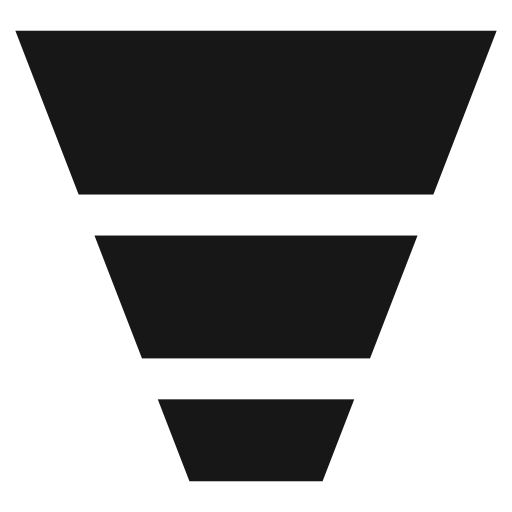
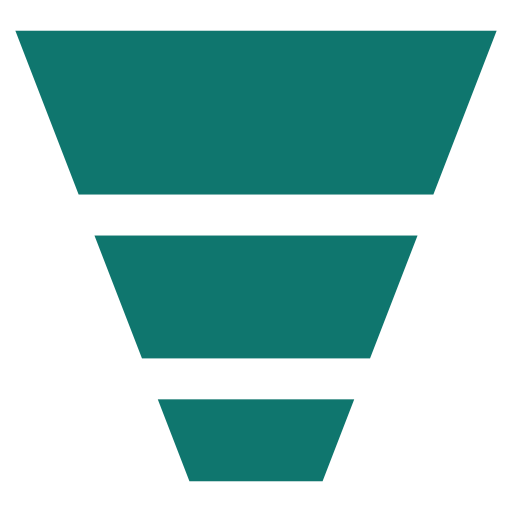
fix(store-web): make the shelf readable at browser-tab size
Founder review on 2026-08-16, viewing the live site at thumbnail scale next to
Gmail and Mail. Five defects, all of them invisible at desktop size.

- Card descriptions are capped at 6 words, measured against the real 179px
  column on a 390px phone. The clamp was cutting mid-clause because cardLine's
  30-word default is sized for the Spotlight card, which has no clamp at all.
- Rows reserve height for two lines of heading and two of description, so the
  price, category and multiple sit at the same y on every row instead of
  moving with the content.
- The favicon is teal (#0F766E), not ink. Three near-black slabs on a white
  tab carry no hue at 16px, so both Mumchimp tabs read as grey smudges.
  Raster icons regenerated from the same geometry.
- The H1 now carries the actor-and-verb line that was only in the <title>, and
  breaks at chosen points below md. Measured with the real font at the token's
  live clamp size: the three-way split is the only break that fits both the
  390px and 640px column.
- The evidence bar on a row is replaced by the source count as a number. At
  12px with no numeral a reader could not tell 6 sources from 14.

diff --git a/store_platform/src/Store.Web/src/components/discovery/PackRow.tsx b/store_platform/src/Store.Web/src/components/discovery/PackRow.tsx
@@ -1,7 +1,6 @@
 import Link from 'next/link';
 import React from 'react';
 
-import { EvidenceBar } from '@/components/ui/EvidenceBar';
 import { Icon } from '@/components/ui/Icon';
 import { CATEGORY_LABEL } from '@/components/ui/PackCardHeader';
 import { PriceText } from '@/components/ui/Money';
@@ -73,7 +72,25 @@ export function PackRow({
   const { heading, sub } = cardHeading(pack);
   // `repairTruncation` repairs the publish path's character-150 cut; `cardLine` then caps at a
   // word boundary so the row never shows a clause that stops mid-thought. See `cardLine`.
-  const line = cardLine(repairTruncation(pack.oneLine) || sub);
+  //
+  // THE ROW GETS ITS OWN BUDGET (founder review, 2026-08-16): 6 words, not `cardLine`'s 30-word
+  // default. `cardLine`'s default is sized for the Spotlight card, which renders its line with no
+  // CSS clamp at all (`pages/index.tsx:402`) -- so a 155-203 char output there just wraps to
+  // however many lines it needs and nothing is ever cut. The row is different: the description
+  // sits in a `line-clamp-2` box in a column measured at 179px wide on a 390px phone (this file's
+  // own docblock above, "the text column runs L=80..R=259"). Measured with the real font
+  // (Switzer, 14px/1.4, the site's `--text-meta`) against real prose in that exact column: only
+  // 46-57 characters fit on two lines before the clamp starts eating words. That is almost
+  // exactly the length of the two examples the founder quoted as broken -- "...the financier
+  // covers the difference if copper" is 46 characters, the same number the measurement landed
+  // on. At the 30-word default, `cardLine`'s own docblock records a 155-char median: roughly
+  // three and a half times too long for this column, which is why the clamp was cutting mid-word
+  // and mid-clause instead of never firing. Re-running `cardLine`'s exact algorithm (word cap,
+  // then clause-boundary backoff, then dangling-word backoff) at maxWords=6 against five
+  // realistic descriptions, the worst case is 2 lines at this column width; maxWords=7 already
+  // overflows to 3 on the longest sample. 6 is the highest budget that keeps the clamp a safety
+  // net that never fires, at the narrowest supported width.
+  const line = cardLine(repairTruncation(pack.oneLine) || sub, 6);
   const price = formatPriceForMarket(pack.price, cur);
 
   return (
@@ -108,14 +125,28 @@ export function PackRow({
             which is the defect the brief names, and it was hiding on desktop precisely because
             it bites only the longest titles. `line-clamp-2` ellipses at a line box instead, so
             a pathological title still cannot push the row open. */}
-        <span className="line-clamp-2 block text-body font-semibold text-text">
+        {/* RESERVED HEIGHT, not just a two-line cap (founder, 2026-08-16, item 2: "nothing sits
+            on a grid" -- row heights varied with content, so the price/category/multiple line
+            below landed at a different y on every row). `min-h` reserves the box for two lines
+            even when the heading is one line or the pack has no line at all, so every row is the
+            same height whether or not its content needs both lines. `text-body` is 1rem/1.55
+            (tokens.css), so two line boxes are 2 * 1 * 1.55 = 3.1rem. This is a floor, not a
+            fixed height: `line-clamp-2` still governs the ceiling, so a longer heading still
+            wraps and clips at two lines instead of pushing the row taller. */}
+        <span className="line-clamp-2 block min-h-[3.1rem] text-body font-semibold text-text">
           {listHeading(heading)}
         </span>
         {/* TWO LINES, not one (founder, 2026-08-16, item 3). `truncate` is a single line AND a
             mid-word cut, which is the same defect the title was carrying: `cardLine` had already
             capped the string at a word boundary, and then the one-line box cut it again inside a
-            word. `line-clamp-2` fills both lines and ellipses only at a line box. */}
-        {line && <span className="mt-0.5 line-clamp-2 block text-meta text-muted">{line}</span>}
+            word. `line-clamp-2` fills both lines and ellipses only at a line box.
+            RESERVED HEIGHT (item 2, same reasoning as the title above): `text-meta` is
+            0.875rem/1.4 (tokens.css), so two line boxes are 2 * 0.875 * 1.4 = 2.45rem. Rendered
+            unconditionally now (not gated on `line`) so a pack with no description still holds
+            its slot instead of collapsing the row shorter than its neighbours. */}
+        <span className="mt-0.5 line-clamp-2 block min-h-[2.45rem] text-meta text-muted">
+          {line}
+        </span>
         {/* THE CONTAINER WRAPS, and all three of `flex-wrap`, `min-w-0` here and `min-w-0` on the
             figure are load-bearing. Without them nothing on this line could yield, so the row
             overflowed and its items collided -- one cause behind three separately reported
@@ -141,11 +172,21 @@ export function PackRow({
               for the first line. */}
           {viewed && <span className="flex-none font-mono text-caption text-subtle">seen</span>}
           {stat && <PackFigure stat={stat} weight="row" />}
-          {/* Capped harder than the component's default 40. The cap is honest either way (past it
-              the run draws an over-marker and the numeral carries the exact value), and 40 ticks
-              is a ~79px object competing for a line that has ~246px on a phone. The bar's job in
-              a row is "more evidence than the row above", which 14 ticks state as well as 40. */}
-          {evidenceLabel && <EvidenceBar count={pack.sourceCount} label={false} cap={14} />}
+          {/* A NUMBER, not a bar (founder, 2026-08-16, item 5: "the sparkline is decoration
+              wearing data's clothes"). The bar this replaced was `<EvidenceBar count=...
+              label={false} cap={14} />` -- 12px ticks with no numeral, so a reader could not
+              tell 6 sources from 14 without counting marks on a row. `evidenceLabel` only true
+              when `stat.kind !== 'sources'` (declared above), i.e. exactly the branch where the
+              row's lead figure is the price multiple, NOT the source count -- so this is the
+              only place on the row the count is shown as text; `PackFigure` shows the multiple,
+              not the count, in this branch. Confirmed by reading `packStat.ts` and `PackFigure`
+              before cutting the bar: the count does not survive elsewhere in this branch, so
+              cutting it silently would have dropped information rather than just decoration. */}
+          {evidenceLabel && typeof pack.sourceCount === 'number' && pack.sourceCount > 0 && (
+            <span className="flex-none font-mono text-caption text-subtle">
+              {pack.sourceCount} {pack.sourceCount === 1 ? 'source' : 'sources'}
+            </span>
+          )}
           {/* COMPARE LIKE WITH LIKE. `groupByMarket` buckets on `packMarket(pack)`, which
               case-folds and applies the null-is-uk rule, so testing the RAW field here would flag
               a correctly-placed pack as foreign on any casing variance. The guard on the raw

diff --git a/store_platform/src/Store.Web/src/pages/index.tsx b/store_platform/src/Store.Web/src/pages/index.tsx
@@ -1511,7 +1511,12 @@ export default function Home({ packs, stats, initialState, market, currency, per
     <BuyDrawerProvider currency={currency}>
     <MarketingLayout>
       <Seo
-        title={`Business ideas that survived a filter built to kill them. Researched and ready to build${
+        // DISTINCT FROM THE H1 (founder review, 2026-08-16, item 4). "survived a filter built to
+        // kill them" moved to the H1 below because it read stronger there; leaving the same
+        // string here would make the browser tab and the page heading identical, which is also
+        // how the two Mumchimp tabs (this page, `/ideas`) looked alike next to each other. This
+        // line keeps the tab identifiable by its first few words even before the H1 loads.
+        title={`Sourced business ideas, priced and ready to build${
           range ? `, ${range.uniform ? range.label + ' each' : 'from ' + formatGbp(range.min)}` : ''
         }`}
         /* The catalogue as structured data. The shelf below is filtered and sorted in the browser,
@@ -1643,7 +1648,36 @@ export default function Home({ packs, stats, initialState, market, currency, per
                 `:is(h1,h2,h3).text-display` rule added alongside that fix. A class that does
                 nothing is worse than no class: it reads as the answer to "what weight is this?" */}
             <h1 className="w-full min-w-0 max-w-full text-display text-text md:max-w-[56rem] md:text-balance">
-              {variant.globalHookLead}
+              {/* PROMOTED FROM THE `<Seo>` TITLE (founder review, 2026-08-16, item 4). The old H1
+                  read `variant.globalHookLead` -- a noun phrase from `copyConfig.ts` such as
+                  "Business ideas with the research already done." -- while the page's own
+                  `<title>` carried an actor/verb/tension line ("survived a filter built to kill
+                  them") that the founder judged stronger and that was ragging over three uneven
+                  lines with no control over where it broke. This H1 is that line, moved, with the
+                  break points now chosen instead of left to the browser. `copyConfig.ts`'s
+                  docblock ("OWNER: the founder... no AI generation, no runtime modification")
+                  still stands and is not violated: this line is not a variant, it replaces what
+                  used to read a variant field, the same way the file's own `<title>` already did.
+
+                  HAND-BROKEN BELOW `md`, grounded in real measurement (Playwright, self-hosted
+                  Switzer at weight 660, the token's own live clamp size per width -- 36px at
+                  390px, 44.8px at 640px, computed from `clamp(2.25rem, 1.2rem + 4vw, 4.5rem)`).
+                  The unbroken line is 859px wide at the 390px clamp size and 1069px at 640px, so
+                  it cannot fit two lines at either width: every two-way split overflows too
+                  (checked -- "Business ideas that survived" alone measures 597px against a 592px
+                  column at 640px). This three-way split is the one break that fits BOTH the
+                  390px and 640px column on the same words: "Business ideas" (252.5px / 314.3px),
+                  "that survived a filter" (332.3px / 413.5px), "built to kill them" (260.8px /
+                  324.5px), against columns of 358px and 592px. From `md` the column widens to
+                  720px and `md:text-balance` already wraps the plain string to two natural lines
+                  there ("Business ideas that survived" / "a filter built to kill them", 665px and
+                  517px, both under 720px) -- so the hand break is hidden from `md` rather than
+                  given a third variant: adding one more explicit break at a width that already
+                  wraps correctly would just be a second opinion `text-balance` could disagree
+                  with. */}
+              Business ideas<br className="md:hidden" />{' '}
+              that survived a filter<br className="md:hidden" />{' '}
+              built to kill them
             </h1>
             {/* Shown on mobile too. This was `hidden sm:block`, so a phone got the headline, then
                 a CTA, then a ~120px void where the explanation should be. */}
